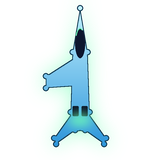
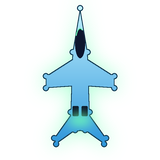
修复主角飞机右半机身缺失：右翼镜像未拼入多边形列表

Changed region(s): [[0.5312, 0.375, 0.75, 0.5938]]

diff --git a/tools/gen_assets.py b/tools/gen_assets.py
@@ -362,8 +362,9 @@ def gen_form(n):
     hull = [(cx, ss(8)), (cx - ss(hw), ss(52)), (cx - ss(hw) - ss(2), ss(fy)),
             (cx - ss(5), ss(130)), (cx + ss(5), ss(130)), (cx + ss(hw) + ss(2), ss(fy)), (cx + ss(hw), ss(52))]
     wings = wing_polys(wing, cx, hw, span, wy, drop, chord)
+    wings_mirror = [mirror_pts(poly, cx) for poly in wings]  # 右翼镜像（修复右半机身缺失）
     tail_l = [(cx - ss(hw), ss(fy)), (cx - ss(26), ss(138)), (cx - ss(24), ss(144)), (cx - ss(hw) + ss(6), ss(128))]
-    polys = [hull] + wings + [tail_l, mirror_pts(tail_l, cx)]
+    polys = [hull] + wings + wings_mirror + [tail_l, mirror_pts(tail_l, cx)]
 
     def fn(d):
         for poly in polys:
